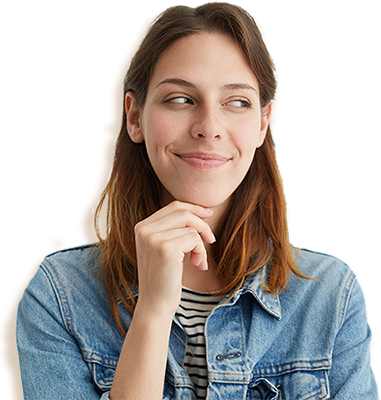
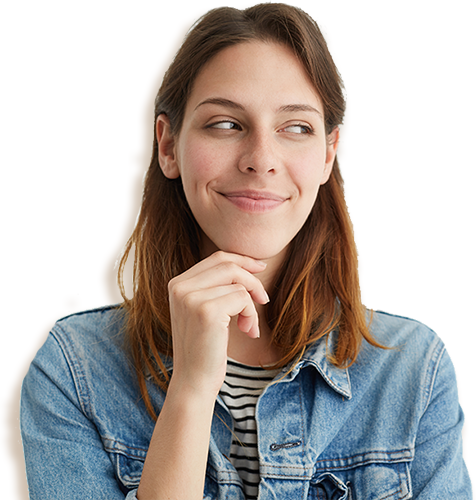
updates

diff --git a/library-perks/index.html b/library-perks/index.html
@@ -123,7 +123,7 @@ e.async=true;var t=document.getElementsByTagName("script")[0];t.parentNode.inser
 
 }
 .staff-person {
-	padding-top: 60px;
+	padding-top: 15px;
 }
 </style>
 <!-- InstanceEndEditable -->
@@ -307,7 +307,7 @@ e.async=true;var t=document.getElementsByTagName("script")[0];t.parentNode.inser
       <div class="col-md-4">
         <div class=""><img class="staff-person img-responsive center-block" src="woman.png"></div>
       </div>
-      <div class="col-md-8 padding-top-60">
+      <div class="col-md-8 padding-top-100">
         <h1 class="jumbo-text text-uppercase font-weight-400 fade-in-text">Library Perks</h1>
         <h4 class="roboto">Lorem ipsum dolor sit amet, consectetur adipiscing elit. Vestibulum at turpis est. Duis tincidunt sem sed massa faucibus pharetra. Etiam ut tellus eros, et consequat arcu.</h4><h4 class="roboto padding-bottom-30">Highlight Lynda.com and Mango here.</h4>
       </div>
